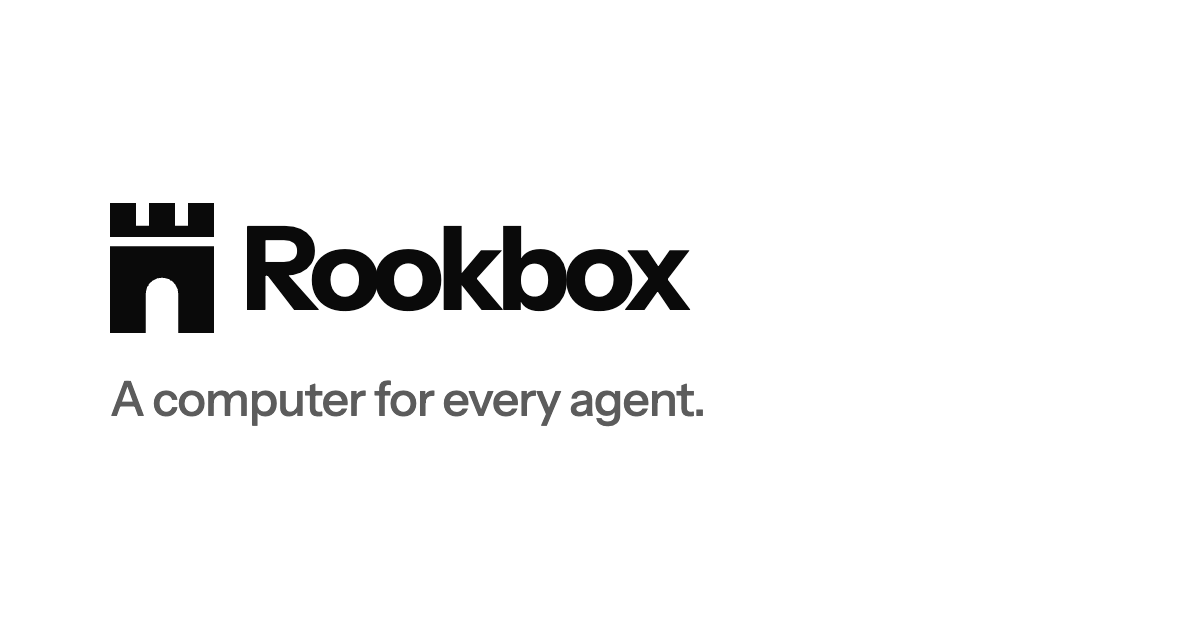
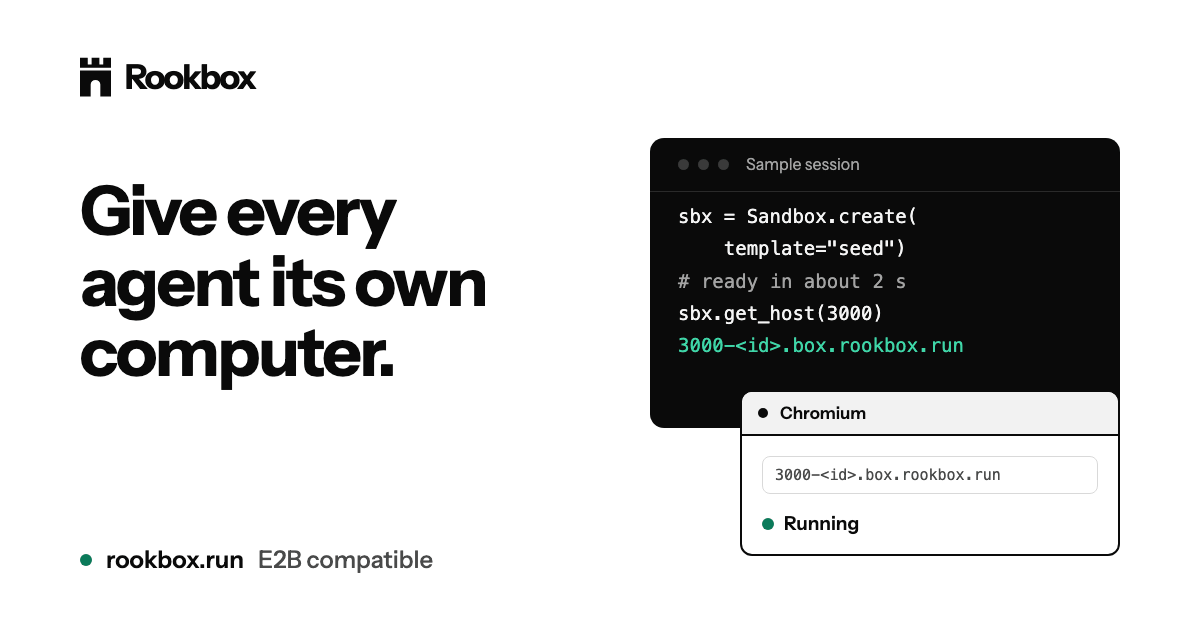
www: designed share images per locale (#25)
## Summary

Links to the landing now preview with a designed, per-language image on
X, LinkedIn, WhatsApp, Slack and iMessage instead of the logo on white.
Three images (`public/og/{en,pt,es}.png`, 1200x630, about 30 KB each)
show the logo mark, the locale headline, a plain-text E2B session and a
Chromium window, in Instrument Sans with the single green accent. Key
content sits inside an 80px side and 56px top and bottom margin; the
headline stays legible at 120x63. `BaseLayout` uses the locale image and
alt text, adds `og:image:type`, `og:locale:alternate` and
`twitter:image:alt`. `public/og.png` is now a copy of the English image
(x-default fallback).

The images are reproducible: `pnpm --filter @rookbox/www og` renders
`scripts/og-template.tpl` with headless Chrome using the copy files.

## Validation

`pnpm lint`, `check`, `test` (adds a test that each image exists, is
1200x630 and under 300 KB), `build`, all passing. Inspected the built
`dist/pt/index.html` head. Viewed the images at full size and at 600x315
and 120x63. Not validated: real previews on each social platform, which
cache and crop on their own.

## Severity and risk

Severity: does not apply, polish. Risk: low, static assets and meta tags
only. Roll back by reverting.

AI assistance: Claude Code drafted the code, template, tests and this
description.

🤖 Generated with [Claude Code](https://claude.com/claude-code)

diff --git a/product/apps/www/scripts/og.ts b/product/apps/www/scripts/og.ts
@@ -1,0 +1,106 @@
+/**
+ * Renders the social share images (public/og/{en,pt,es}.png, 1200x630) from scripts/og-template.tpl
+ * with headless Chrome. Run `pnpm og` from apps/www after changing the template or the copy.
+ *
+ * Needs Chrome: set CHROME_PATH, or it tries the usual macOS/Linux locations. If ffmpeg is on the
+ * PATH the PNGs are palette-quantized (flat colors, so the result is lossless in practice).
+ */
+import { execFileSync } from "node:child_process";
+import {
+  existsSync,
+  mkdirSync,
+  mkdtempSync,
+  readFileSync,
+  renameSync,
+  writeFileSync,
+} from "node:fs";
+import { tmpdir } from "node:os";
+import { join } from "node:path";
+import { fileURLToPath, pathToFileURL } from "node:url";
+import { en } from "../src/i18n/copy/en";
+import { es } from "../src/i18n/copy/es";
+import { pt } from "../src/i18n/copy/pt";
+import { LOCALE_HTML_LANG, type Locale } from "../src/i18n/locales";
+
+const ROOT = fileURLToPath(new URL("..", import.meta.url));
+const COPIES = { en, pt, es } as const;
+const DOMAIN = "box.rookbox.run";
+
+const CHROME = [
+  process.env.CHROME_PATH,
+  "/Applications/Google Chrome.app/Contents/MacOS/Google Chrome",
+  "/usr/bin/google-chrome",
+  "/usr/bin/chromium",
+].find((path): path is string => Boolean(path) && existsSync(path as string));
+
+if (!CHROME) throw new Error("Chrome not found. Set CHROME_PATH.");
+
+const escapeHtml = (text: string) =>
+  text.replace(/&/g, "&amp;").replace(/</g, "&lt;").replace(/>/g, "&gt;");
+
+const template = readFileSync(join(ROOT, "scripts/og-template.tpl"), "utf8");
+const fontUrl = pathToFileURL(join(ROOT, "public/fonts/instrument-sans-latin.woff2")).href;
+const work = mkdtempSync(join(tmpdir(), "rookbox-og-"));
+mkdirSync(join(ROOT, "public/og"), { recursive: true });
+
+const hasFfmpeg = (() => {
+  try {
+    execFileSync("ffmpeg", ["-version"], { stdio: "ignore" });
+    return true;
+  } catch {
+    return false;
+  }
+})();
+
+for (const locale of Object.keys(COPIES) as Locale[]) {
+  const copy = COPIES[locale];
+  const values: Record<string, string> = {
+    lang: LOCALE_HTML_LANG[locale],
+    fontUrl,
+    title: copy.hero.title,
+    e2b: copy.nav.e2b,
+    terminalLabel: copy.demo.terminalLabel,
+    ready: copy.demo.session.ready,
+    running: copy.visual.running,
+    domain: DOMAIN,
+  };
+  const html = template.replace(/\{\{(\w+)\}\}/g, (_, key: string) => {
+    if (!(key in values)) throw new Error(`Unknown template key ${key}`);
+    return key === "fontUrl" ? values[key] : escapeHtml(values[key]);
+  });
+  const page = join(work, `${locale}.html`);
+  const raw = join(work, `${locale}.png`);
+  const out = join(ROOT, `public/og/${locale}.png`);
+  writeFileSync(page, html);
+  execFileSync(
+    CHROME,
+    [
+      "--headless=new",
+      "--disable-gpu",
+      "--hide-scrollbars",
+      "--force-device-scale-factor=1",
+      "--window-size=1200,630",
+      "--virtual-time-budget=3000",
+      `--screenshot=${raw}`,
+      pathToFileURL(page).href,
+    ],
+    { stdio: "ignore" },
+  );
+  if (hasFfmpeg) {
+    const small = join(work, `${locale}.small.png`);
+    execFileSync("ffmpeg", [
+      "-y",
+      "-loglevel",
+      "error",
+      "-i",
+      raw,
+      "-vf",
+      "split[a][b];[a]palettegen=max_colors=64[p];[b][p]paletteuse=dither=none",
+      small,
+    ]);
+    renameSync(small, out);
+  } else {
+    renameSync(raw, out);
+  }
+  console.log(`wrote public/og/${locale}.png`);
+}

diff --git a/product/apps/www/src/content.test.ts b/product/apps/www/src/content.test.ts
@@ -106,3 +106,23 @@ describe("snippets", () => {
     expect(py[1]).toContain("E2B_DOMAIN=box.rookbox.run");
   });
 });
+
+describe("share images", () => {
+  const PUBLIC = join(HERE, "../public");
+
+  it.each(["en", "pt", "es"])("has a 1200x630 PNG for %s under 300 KB", (locale) => {
+    const file = join(PUBLIC, "og", `${locale}.png`);
+    expect(existsSync(file), file).toBe(true);
+    const bytes = readFileSync(file);
+    expect(bytes.subarray(1, 4).toString("ascii")).toBe("PNG");
+    // IHDR: width and height are the first two big-endian uint32 after the chunk header.
+    expect(bytes.readUInt32BE(16)).toBe(1200);
+    expect(bytes.readUInt32BE(20)).toBe(630);
+    expect(bytes.length).toBeLessThan(300 * 1024);
+  });
+
+  it("keeps the x-default fallback the same size", () => {
+    const bytes = readFileSync(join(PUBLIC, "og.png"));
+    expect([bytes.readUInt32BE(16), bytes.readUInt32BE(20)]).toEqual([1200, 630]);
+  });
+});
